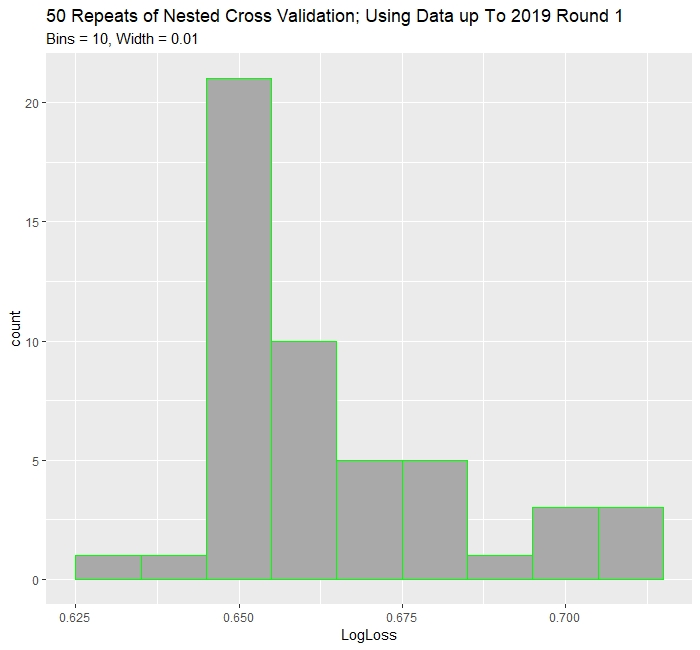
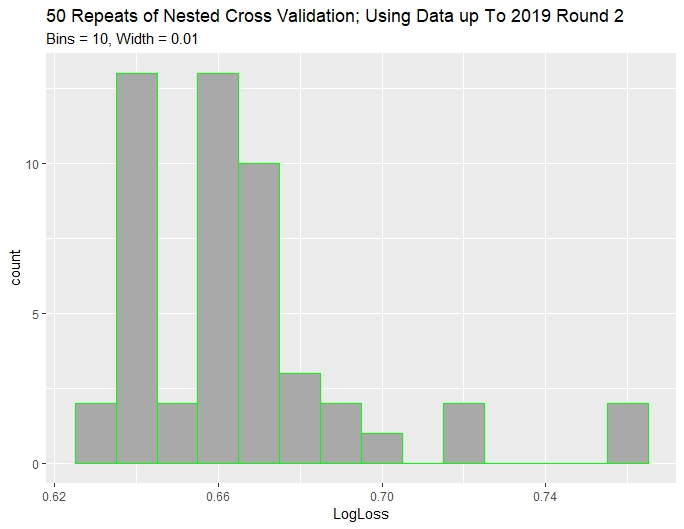
model change
-switch to four fold cv
-add more bootstrapped models in the bagging
-insignificant differences in overall logloss.

diff --git a/README.md b/README.md
@@ -1,9 +1,9 @@
 # NHLPlayoffs
 A model that aims to predict the outcome of a NHL playoff series before the first game is played. 
 
-With the addition of the 2019 playoff data of Round 1; log loss sits at 0.66352 with a 95% confidence interval given by via. Bootstrapping: [0.65816, 0.66861]
+With the addition of the 2019 playoff data up to Round 2; log loss sits at 0.66519 with a 95% confidence interval given by via. Bootstrapping: [0.65699, 0.67245].
 
-Using only 2018 and older data, log loss is 0.6542 with a 95% confidence interval given by via. 10,000 Bootstrap Samples: [0.64575, 0.66168]. 2019 data makes the model perform worse, on average. 
+Using only 2018 and older data, log loss is 0.6542 with a 95% confidence interval given by via. Bootstrapping: [0.64575, 0.66168]. 2019 data makes the model perform worse, on average. 
 
 ![Alt text](https://github.com/braydentang1/NHLPlayoffs/blob/master/Histogram.jpeg)
 
